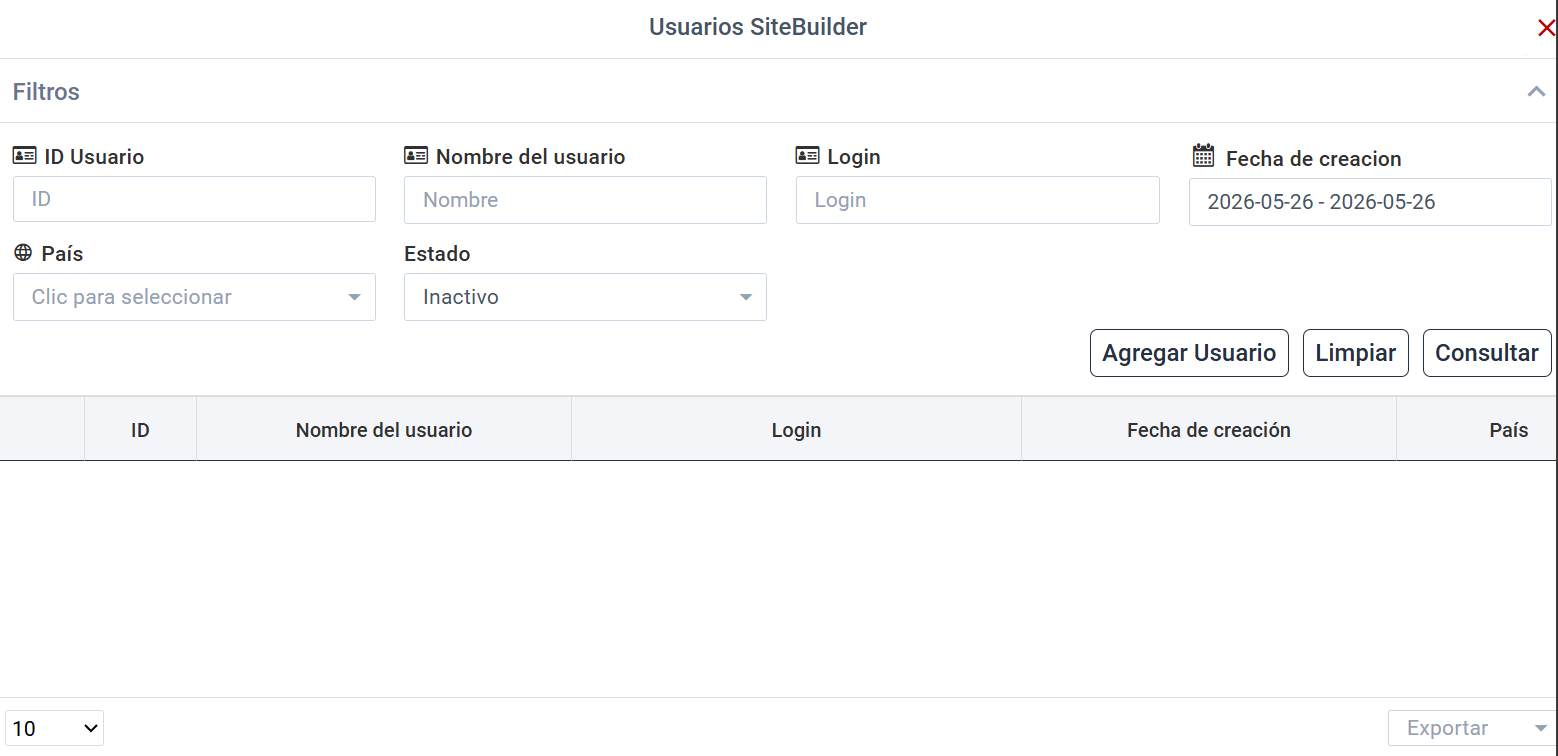
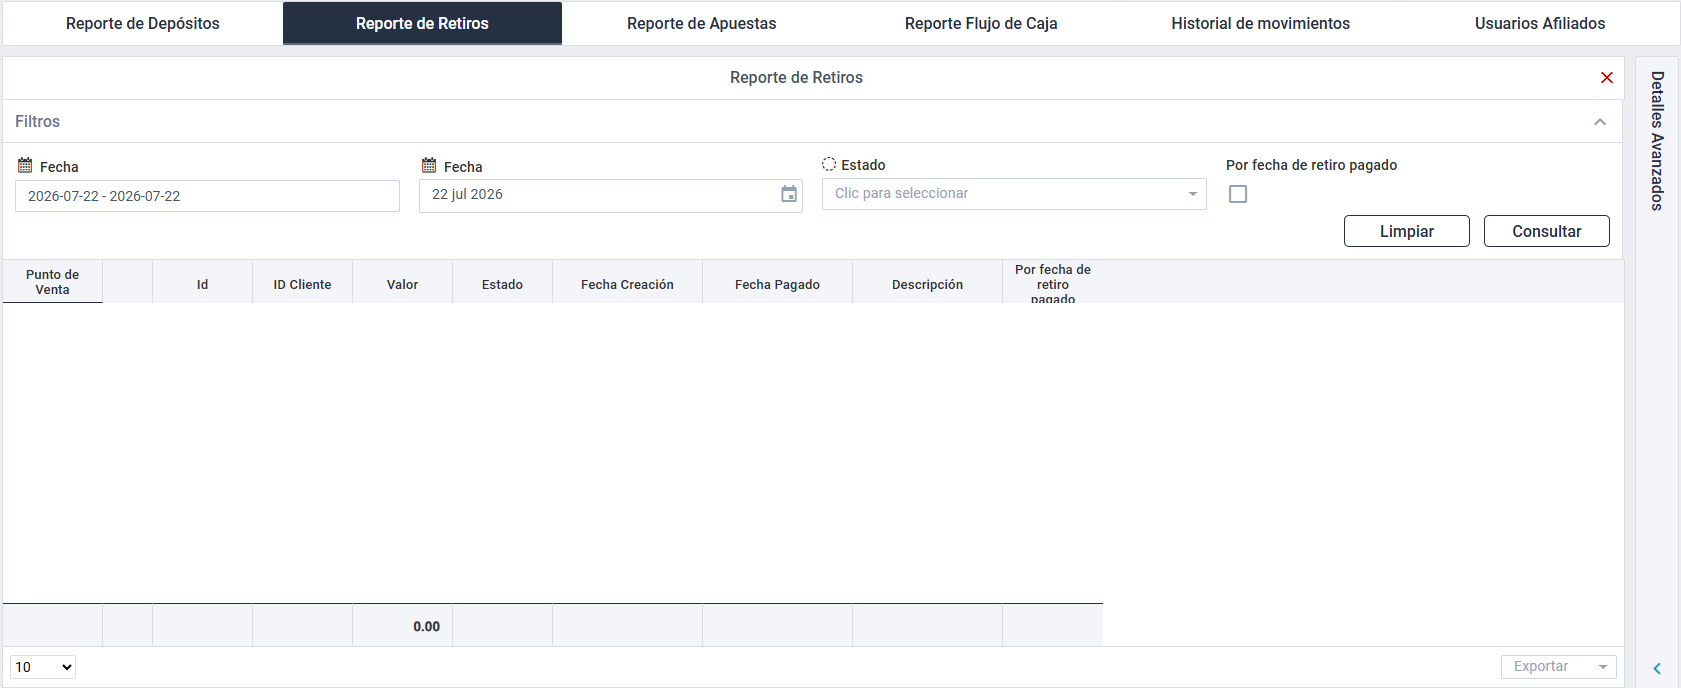
GITBOOK-1565: change request with no subject merged in GitBook

diff --git a/Backoffice/manual-de-usuario-backoffice/gestion-punto-de-venta/punto-de-venta/reportes/reporte-flujo-de-caja.md b/Backoffice/manual-de-usuario-backoffice/gestion-punto-de-venta/punto-de-venta/reportes/reporte-flujo-de-caja.md
@@ -1,2 +1,64 @@
+---
+layout:
+  width: default
+  title:
+    visible: true
+  description:
+    visible: false
+  tableOfContents:
+    visible: true
+  outline:
+    visible: true
+  pagination:
+    visible: true
+  metadata:
+    visible: true
+  tags:
+    visible: true
+  actions:
+    visible: true
+---
+
 # Reporte Flujo de Caja
 
+
+
+***
+
+### 1. Acceso al Módulo
+
+**Ruta de Acceso**: BackOffice > Menú principal > Gestión punto de venta > 🔍 Ingresar a punto de venta > Reportes > Reporte flujo de caja.
+
+***
+
+### 2. Visualización
+
+<figure><img src="../../../../.gitbook/assets/image.png" alt=""><figcaption><p>Figura #1: Captura de pantalla reporte flujo de caja.</p></figcaption></figure>
+
+***
+
+### 3.  Acciones de usuario
+
+<table><thead><tr><th width="170.4444580078125">Acción</th><th>Descripción</th></tr></thead><tbody><tr><td><a href="https://virtualsoft.gitbook.io/manuales/manual-de-usuario-backoffice/gestion-punto-de-venta/punto-de-venta/reportes/reporte-de-retiros#id-4.-filtros"><strong>Filtros</strong></a></td><td>Permite buscar el historial de los retiros realizados por el punto de venta con la ayuda de filtros.</td></tr><tr><td><strong>Limpiar</strong></td><td>Restablece los filtros por defecto.</td></tr><tr><td><a href="https://virtualsoft.gitbook.io/manuales/manual-de-usuario-backoffice/gestion-punto-de-venta/punto-de-venta/reportes/reporte-de-retiros#id-5.-resultado-de-consulta"><strong>Consultar</strong></a></td><td>Aplica los filtros configurados y obtén los resultados.</td></tr><tr><td><strong>Exportar</strong></td><td>Permite exportar los resultados obtenidos según los filtros aplicados en formatos Excel <em>(.XLS)</em> y PDF mediante el botón <strong>Exportar</strong>, ubicado en la parte inferior derecha de la pantalla.</td></tr></tbody></table>
+
+### 4. Filtros
+
+<table><thead><tr><th width="135.25">Campo</th><th width="117.25">Tipo de control</th><th>Descripción</th></tr></thead><tbody><tr><td><strong><code>Fecha</code></strong></td><td>Calendario</td><td>Rango de fechas en la cual se realizaron los Retiros.</td></tr><tr><td><strong><code>País</code></strong></td><td></td><td></td></tr><tr><td><strong><code>No. Ticket</code></strong></td><td></td><td></td></tr></tbody></table>
+
+### 5. Resultado de Consulta
+
+El reporte de solitudes de retiro se visualizará en una tabla que contiene las siguientes columnas:
+
+<table><thead><tr><th width="140.25">Columna</th><th>Descripción</th></tr></thead><tbody><tr><td>🔍</td><td></td></tr></tbody></table>
+
+***
+
+### 6. Control de Versiones
+
+<details>
+
+<summary>🔽Historial de versiones</summary>
+
+<table><thead><tr><th width="119.14813232421875">Versión</th><th width="130.77777099609375">Fecha</th><th width="164.5555419921875">Autor</th><th>Cambios Realizados</th></tr></thead><tbody><tr><td>1.0</td><td>2026-07-23</td><td>Ronald Peláez</td><td>Documento inicial</td></tr></tbody></table>
+
+</details>

diff --git a/Backoffice/manual-de-usuario-backoffice/gestion-punto-de-venta/punto-de-venta/reportes/historial-de-movimientos.md b/Backoffice/manual-de-usuario-backoffice/gestion-punto-de-venta/punto-de-venta/reportes/historial-de-movimientos.md
@@ -1,2 +1,43 @@
 # Historial de movimientos
 
+
+
+***
+
+### 1. Acceso al Módulo
+
+**Ruta de Acceso**: BackOffice > Menú principal > Gestión punto de venta > 🔍 Ingresar a punto de venta > Reportes > Historial de movimientos.
+
+***
+
+### 2. Visualización
+
+<figure><img src="../../../../.gitbook/assets/image.png" alt=""><figcaption><p>Figura #1: Captura de pantalla reporte flujo de caja.</p></figcaption></figure>
+
+***
+
+### 3.  Acciones de usuario
+
+<table><thead><tr><th width="170.4444580078125">Acción</th><th>Descripción</th></tr></thead><tbody><tr><td><a href="https://virtualsoft.gitbook.io/manuales/manual-de-usuario-backoffice/gestion-punto-de-venta/punto-de-venta/reportes/reporte-de-retiros#id-4.-filtros"><strong>Filtros</strong></a></td><td>Permite buscar el historial de los retiros realizados por el punto de venta con la ayuda de filtros.</td></tr><tr><td><strong>Limpiar</strong></td><td>Restablece los filtros por defecto.</td></tr><tr><td><a href="https://virtualsoft.gitbook.io/manuales/manual-de-usuario-backoffice/gestion-punto-de-venta/punto-de-venta/reportes/reporte-de-retiros#id-5.-resultado-de-consulta"><strong>Consultar</strong></a></td><td>Aplica los filtros configurados y obtén los resultados.</td></tr><tr><td><strong>Exportar</strong></td><td>Permite exportar los resultados obtenidos según los filtros aplicados en formatos Excel <em>(.XLS)</em> y PDF mediante el botón <strong>Exportar</strong>, ubicado en la parte inferior derecha de la pantalla.</td></tr></tbody></table>
+
+### 4. Filtros
+
+<table><thead><tr><th width="135.25">Campo</th><th width="117.25">Tipo de control</th><th>Descripción</th></tr></thead><tbody><tr><td><strong><code>Fecha</code></strong></td><td>Calendario</td><td>Rango de fechas en la cual se realizaron los Retiros.</td></tr><tr><td><strong><code>País</code></strong></td><td></td><td></td></tr><tr><td><strong><code>No. Ticket</code></strong></td><td></td><td></td></tr></tbody></table>
+
+### 5. Resultado de Consulta
+
+El reporte de solitudes de retiro se visualizará en una tabla que contiene las siguientes columnas:
+
+<table><thead><tr><th width="140.25">Columna</th><th>Descripción</th></tr></thead><tbody><tr><td>🔍</td><td></td></tr></tbody></table>
+
+***
+
+### 6. Control de Versiones
+
+<details>
+
+<summary>🔽Historial de versiones</summary>
+
+<table><thead><tr><th width="119.14813232421875">Versión</th><th width="130.77777099609375">Fecha</th><th width="164.5555419921875">Autor</th><th>Cambios Realizados</th></tr></thead><tbody><tr><td>1.0</td><td>2026-07-23</td><td>Ronald Peláez</td><td>Documento inicial</td></tr></tbody></table>
+
+</details>

diff --git a/Backoffice/manual-de-usuario-backoffice/gestion-punto-de-venta/punto-de-venta/reportes/reporte-de-apuestas.md b/Backoffice/manual-de-usuario-backoffice/gestion-punto-de-venta/punto-de-venta/reportes/reporte-de-apuestas.md
@@ -18,7 +18,7 @@
 
 ### 3.  Acciones de usuario
 
-<table><thead><tr><th width="170.4444580078125">Acción</th><th>Descripción</th></tr></thead><tbody><tr><td><a href="https://virtualsoft.gitbook.io/manuales/manual-de-usuario-backoffice/gestion-punto-de-venta/punto-de-venta/reportes/reporte-de-retiros#id-4.-filtros"><strong>Filtros</strong></a></td><td>Permite buscar el historial de los retiros realizados por el punto de venta con la ayuda de filtros.</td></tr><tr><td><strong>Limpiar</strong></td><td>Restablece los filtros por defecto.</td></tr><tr><td><a href="https://virtualsoft.gitbook.io/manuales/manual-de-usuario-backoffice/gestion-punto-de-venta/punto-de-venta/reportes/reporte-de-retiros#id-5.-resultado-de-consulta"><strong>Consultar</strong></a></td><td>Aplica los filtros configurados y obtén los resultados.</td></tr><tr><td><strong>Exportar</strong></td><td>Permite exportar los resultados obtenidos según los filtros aplicados en formatos Excel (.XLS) y PDF mediante el botón <strong>Exportar</strong>, ubicado en la parte inferior derecha de la pantalla.</td></tr></tbody></table>
+<table><thead><tr><th width="170.4444580078125">Acción</th><th>Descripción</th></tr></thead><tbody><tr><td><a href="https://virtualsoft.gitbook.io/manuales/manual-de-usuario-backoffice/gestion-punto-de-venta/punto-de-venta/reportes/reporte-de-retiros#id-4.-filtros"><strong>Filtros</strong></a></td><td>Permite buscar el historial de los retiros realizados por el punto de venta con la ayuda de filtros.</td></tr><tr><td><strong>Limpiar</strong></td><td>Restablece los filtros por defecto.</td></tr><tr><td><a href="https://virtualsoft.gitbook.io/manuales/manual-de-usuario-backoffice/gestion-punto-de-venta/punto-de-venta/reportes/reporte-de-retiros#id-5.-resultado-de-consulta"><strong>Consultar</strong></a></td><td>Aplica los filtros configurados y obtén los resultados.</td></tr><tr><td><strong>Exportar</strong></td><td>Permite exportar los resultados obtenidos según los filtros aplicados en formatos Excel <em>(.XLS)</em> y PDF mediante el botón <strong>Exportar</strong>, ubicado en la parte inferior derecha de la pantalla.</td></tr></tbody></table>
 
 ### 4. Filtros
 
@@ -28,7 +28,7 @@
 
 El reporte de solitudes de retiro se visualizará en una tabla que contiene las siguientes columnas:
 
-<table><thead><tr><th width="140.25">Columna</th><th>Descripción</th></tr></thead><tbody><tr><td>🔍</td><td></td></tr><tr><td>Ticked Id</td><td></td></tr><tr><td>Usuario</td><td></td></tr><tr><td>Estado</td><td></td></tr><tr><td>Fecha</td><td></td></tr><tr><td>Fecha de pago</td><td></td></tr><tr><td>Punto de venta pagó</td><td></td></tr><tr><td>Valor</td><td></td></tr><tr><td>Premios</td><td></td></tr><tr><td>Impuesto Premios</td><td></td></tr><tr><td>Impuesto Apuesta</td><td></td></tr><tr><td>Premio Total</td><td></td></tr><tr><td>Odds</td><td></td></tr><tr><td>Ip</td><td></td></tr><tr><td>Billetera</td><td></td></tr></tbody></table>
+<table><thead><tr><th width="140.25">Columna</th><th>Descripción</th></tr></thead><tbody><tr><td><strong><code>🔍</code></strong></td><td></td></tr><tr><td><strong><code>Ticked Id</code></strong></td><td></td></tr><tr><td><strong><code>Usuario</code></strong></td><td></td></tr><tr><td><strong><code>Estado</code></strong></td><td></td></tr><tr><td><strong><code>Fecha</code></strong></td><td></td></tr><tr><td><strong><code>Fecha de pago</code></strong></td><td></td></tr><tr><td><strong><code>Punto de venta pagó</code></strong></td><td></td></tr><tr><td><strong><code>Valor</code></strong></td><td></td></tr><tr><td><strong><code>Premios</code></strong></td><td></td></tr><tr><td><strong><code>Impuesto Premios</code></strong></td><td></td></tr><tr><td><strong><code>Impuesto Apuesta</code></strong></td><td></td></tr><tr><td><strong><code>Premio Total</code></strong></td><td></td></tr><tr><td><strong><code>Odds</code></strong></td><td></td></tr><tr><td><strong><code>Ip</code></strong></td><td></td></tr><tr><td><strong><code>Billetera</code></strong></td><td></td></tr></tbody></table>
 
 <details>
 
@@ -36,11 +36,11 @@ El reporte de solitudes de retiro se visualizará en una tabla que contiene las 
 
 **Detalles del ticket**
 
-<table><thead><tr><th width="142">Columna</th><th>Descripción</th></tr></thead><tbody><tr><td>Ticket Det ID</td><td></td></tr><tr><td>Ticket ID</td><td></td></tr><tr><td>Descripción</td><td></td></tr></tbody></table>
+<table><thead><tr><th width="142">Columna</th><th>Descripción</th></tr></thead><tbody><tr><td><strong><code>Ticket Det ID</code></strong></td><td></td></tr><tr><td><strong><code>Ticket ID</code></strong></td><td></td></tr><tr><td><strong><code>Descripción</code></strong></td><td></td></tr></tbody></table>
 
 **Historial de transacciones**
 
-<table><thead><tr><th width="147">Campo</th><th>Descripción</th></tr></thead><tbody><tr><td>Ticket Det ID</td><td></td></tr><tr><td>Tipo</td><td></td></tr><tr><td>Ticket ID</td><td></td></tr><tr><td>Fecha</td><td></td></tr><tr><td>Transacción Id</td><td></td></tr><tr><td>Monto</td><td></td></tr></tbody></table>
+<table><thead><tr><th width="147">Campo</th><th>Descripción</th></tr></thead><tbody><tr><td><strong><code>Ticket Det ID</code></strong></td><td></td></tr><tr><td><strong><code>Tipo</code></strong></td><td></td></tr><tr><td><strong><code>Ticket ID</code></strong></td><td></td></tr><tr><td><strong><code>Fecha</code></strong></td><td></td></tr><tr><td><strong><code>Transacción Id</code></strong></td><td></td></tr><tr><td><strong><code>Monto</code></strong></td><td></td></tr></tbody></table>
 
 </details>
 

diff --git a/Backoffice/manual-de-usuario-backoffice/gestion-punto-de-venta/punto-de-venta/reportes/reporte-de-depositos.md b/Backoffice/manual-de-usuario-backoffice/gestion-punto-de-venta/punto-de-venta/reportes/reporte-de-depositos.md
@@ -39,7 +39,7 @@ Reporte de depósitos realizados por el punto de venta.
 
 ### 3.  Acciones de usuario
 
-<table><thead><tr><th width="170.4444580078125">Acción</th><th>Descripción</th></tr></thead><tbody><tr><td><strong>Filtros</strong></td><td>Permite buscar el historial de los depósitos realizados por el punto de venta con la ayuda de filtros.</td></tr><tr><td><strong>Limpiar</strong></td><td>Restablece los filtros por defecto.</td></tr><tr><td><strong>Consultar</strong></td><td>Aplica los filtros configurados y obtén los resultados.</td></tr><tr><td><strong>Exportar</strong></td><td>Permite exportar los resultados obtenidos según los filtros aplicados en formatos Excel (.XLS) y PDF mediante el botón <strong>Exportar</strong>, ubicado en la parte inferior derecha de la pantalla.</td></tr></tbody></table>
+<table><thead><tr><th width="170.4444580078125">Acción</th><th>Descripción</th></tr></thead><tbody><tr><td><strong>Filtros</strong></td><td>Permite buscar el historial de los depósitos realizados por el punto de venta con la ayuda de filtros.</td></tr><tr><td><strong>Limpiar</strong></td><td>Restablece los filtros por defecto.</td></tr><tr><td><strong>Consultar</strong></td><td>Aplica los filtros configurados y obtén los resultados.</td></tr><tr><td><strong>Exportar</strong></td><td>Permite exportar los resultados obtenidos según los filtros aplicados en formatos Excel <em>(.XLS)</em> y PDF mediante el botón <strong>Exportar</strong>, ubicado en la parte inferior derecha de la pantalla.</td></tr></tbody></table>
 
 ### 4. Filtros
 

diff --git a/Backoffice/manual-de-usuario-backoffice/gestion-punto-de-venta/punto-de-venta/reportes/reporte-de-retiros.md b/Backoffice/manual-de-usuario-backoffice/gestion-punto-de-venta/punto-de-venta/reportes/reporte-de-retiros.md
@@ -39,7 +39,7 @@ Reporte de las solicitudes de retiros realizadas por medio del punto de venta.
 
 ### 3.  Acciones de usuario
 
-<table><thead><tr><th width="170.4444580078125">Acción</th><th>Descripción</th></tr></thead><tbody><tr><td><a href="https://virtualsoft.gitbook.io/manuales/manual-de-usuario-backoffice/gestion-punto-de-venta/punto-de-venta/reportes/reporte-de-depositos#id-4.-filtros"><strong>Filtros</strong></a></td><td>Permite buscar el historial de los retiros realizados por el punto de venta con la ayuda de filtros.</td></tr><tr><td><strong>Limpiar</strong></td><td>Restablece los filtros por defecto.</td></tr><tr><td><a href="https://virtualsoft.gitbook.io/manuales/manual-de-usuario-backoffice/gestion-punto-de-venta/punto-de-venta/reportes/reporte-de-depositos#id-5.-resultado-de-consulta"><strong>Consultar</strong></a></td><td>Aplica los filtros configurados y obtén los resultados.</td></tr><tr><td><strong>Exportar</strong></td><td>Permite exportar los resultados obtenidos según los filtros aplicados en formatos Excel (.XLS) y PDF mediante el botón <strong>Exportar</strong>, ubicado en la parte inferior derecha de la pantalla.</td></tr></tbody></table>
+<table><thead><tr><th width="170.4444580078125">Acción</th><th>Descripción</th></tr></thead><tbody><tr><td><a href="https://virtualsoft.gitbook.io/manuales/manual-de-usuario-backoffice/gestion-punto-de-venta/punto-de-venta/reportes/reporte-de-depositos#id-4.-filtros"><strong>Filtros</strong></a></td><td>Permite buscar el historial de los retiros realizados por el punto de venta con la ayuda de filtros.</td></tr><tr><td><strong>Limpiar</strong></td><td>Restablece los filtros por defecto.</td></tr><tr><td><a href="https://virtualsoft.gitbook.io/manuales/manual-de-usuario-backoffice/gestion-punto-de-venta/punto-de-venta/reportes/reporte-de-depositos#id-5.-resultado-de-consulta"><strong>Consultar</strong></a></td><td>Aplica los filtros configurados y obtén los resultados.</td></tr><tr><td><strong>Exportar</strong></td><td>Permite exportar los resultados obtenidos según los filtros aplicados en formatos Excel <em>(.XLS)</em> y PDF mediante el botón <strong>Exportar</strong>, ubicado en la parte inferior derecha de la pantalla.</td></tr></tbody></table>
 
 ### 4. Filtros
 

diff --git a/Backoffice/manual-de-usuario-backoffice/seguridad/usuarios-sitebuilder.md b/Backoffice/manual-de-usuario-backoffice/seguridad/usuarios-sitebuilder.md
@@ -33,7 +33,7 @@ layout:
 
 ### 2. Visualización
 
-<figure><img src="../../.gitbook/assets/image (1) (1).png" alt=""><figcaption><p>Figura#1: Captura de pantalla módulo Usuarios Sitebuilder.</p></figcaption></figure>
+<figure><img src="../../.gitbook/assets/image (1) (1) (1).png" alt=""><figcaption><p>Figura#1: Captura de pantalla módulo Usuarios Sitebuilder.</p></figcaption></figure>
 
 ***
 